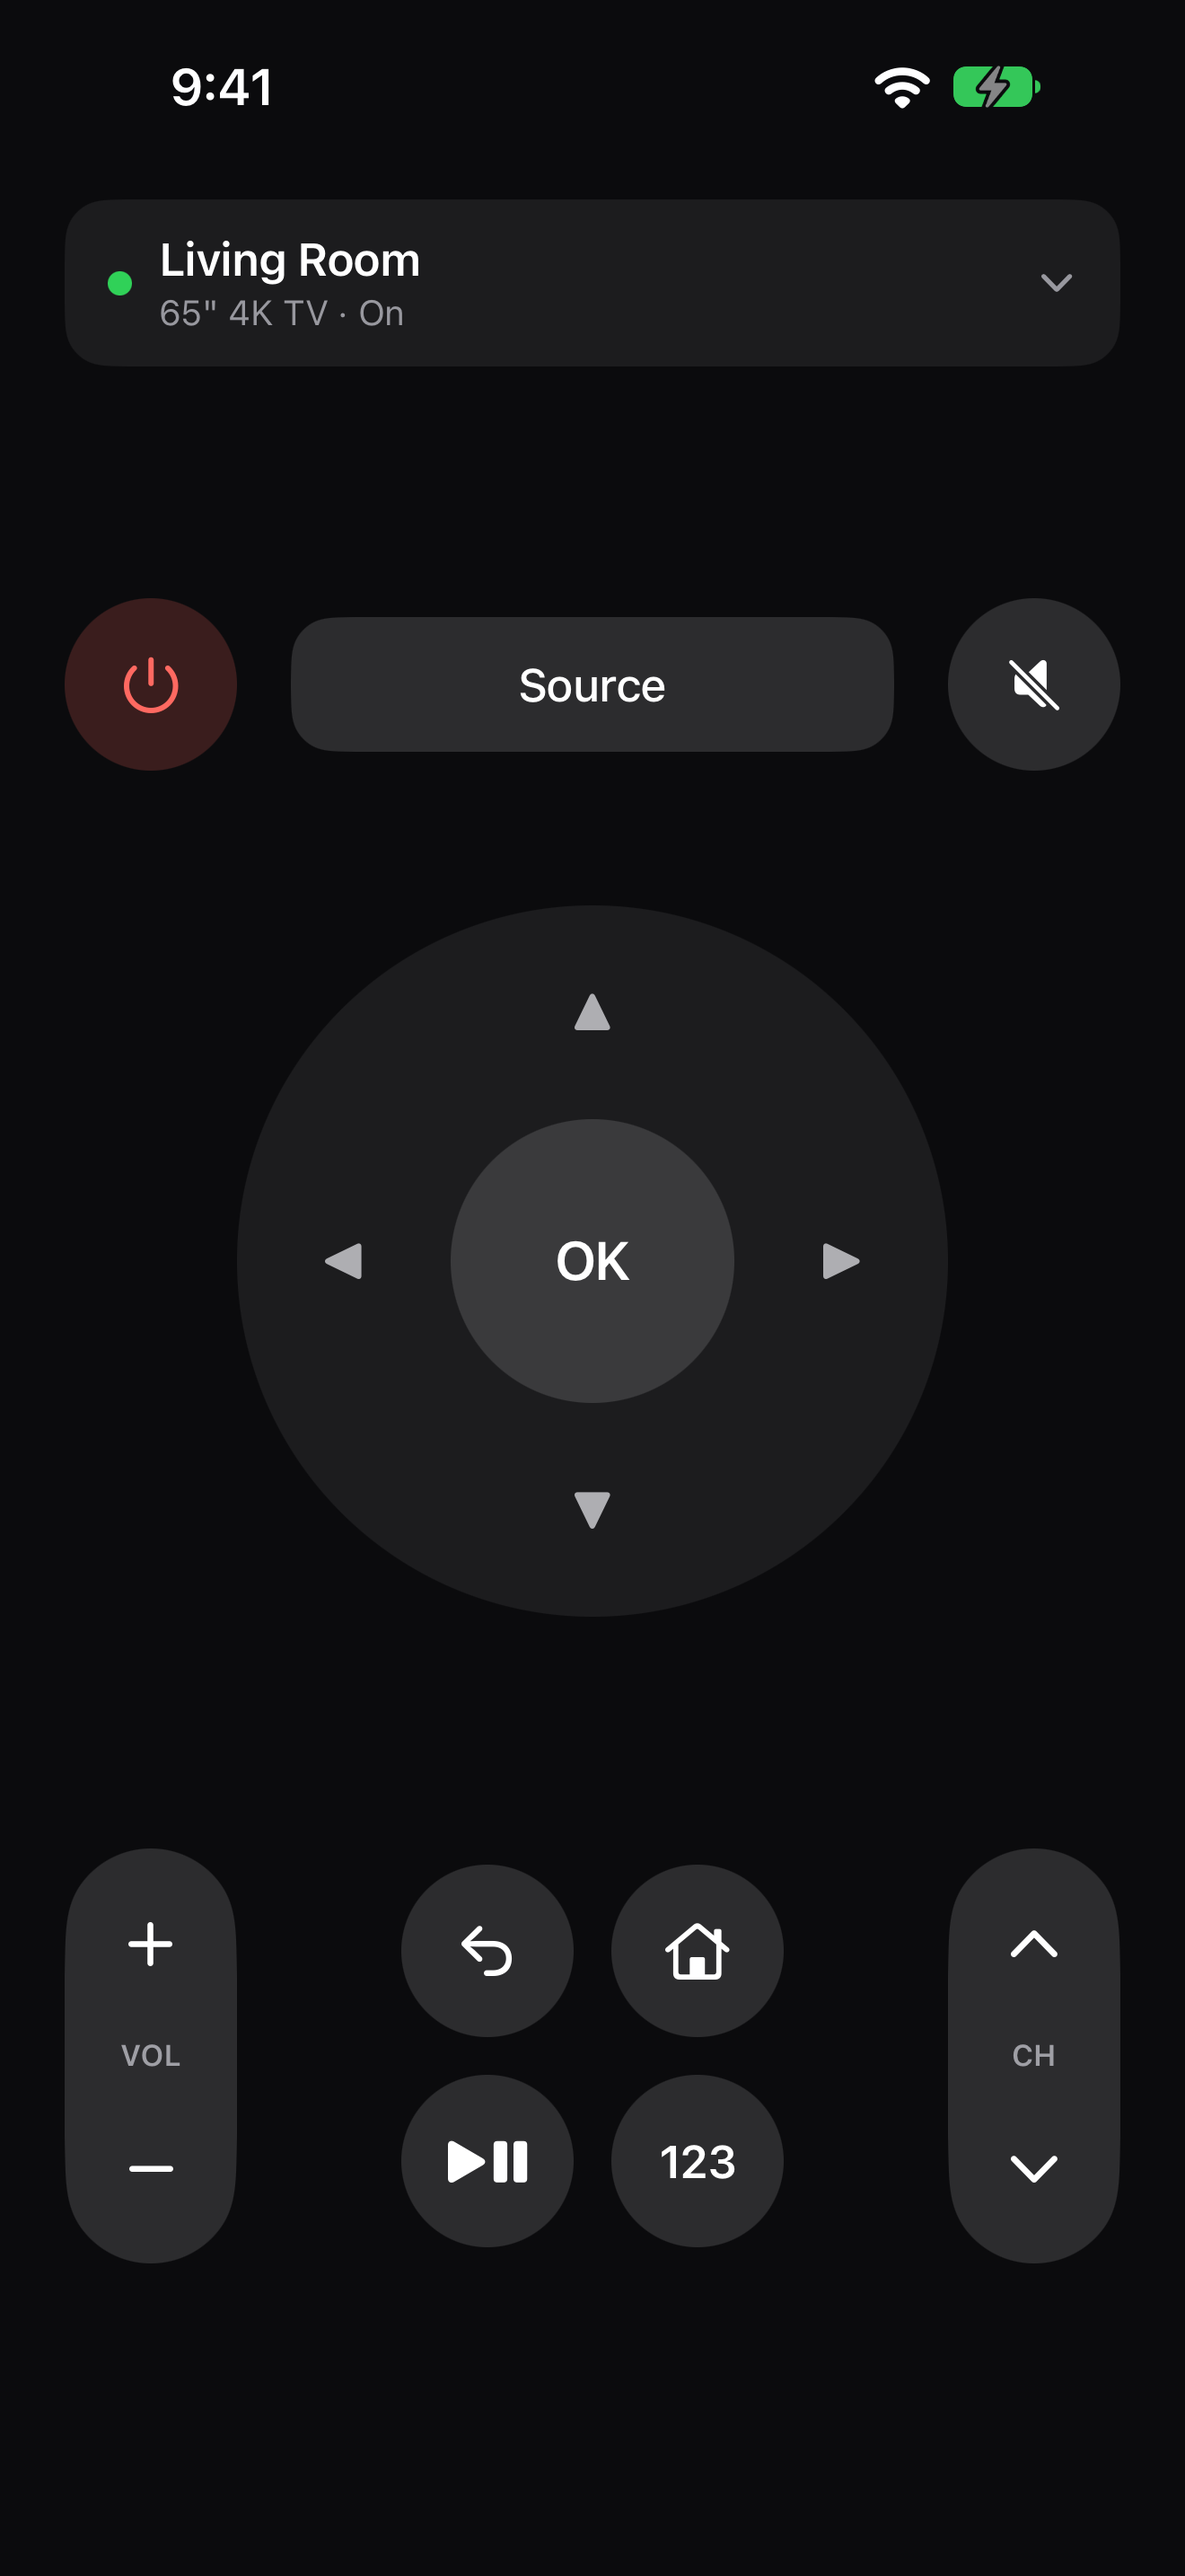
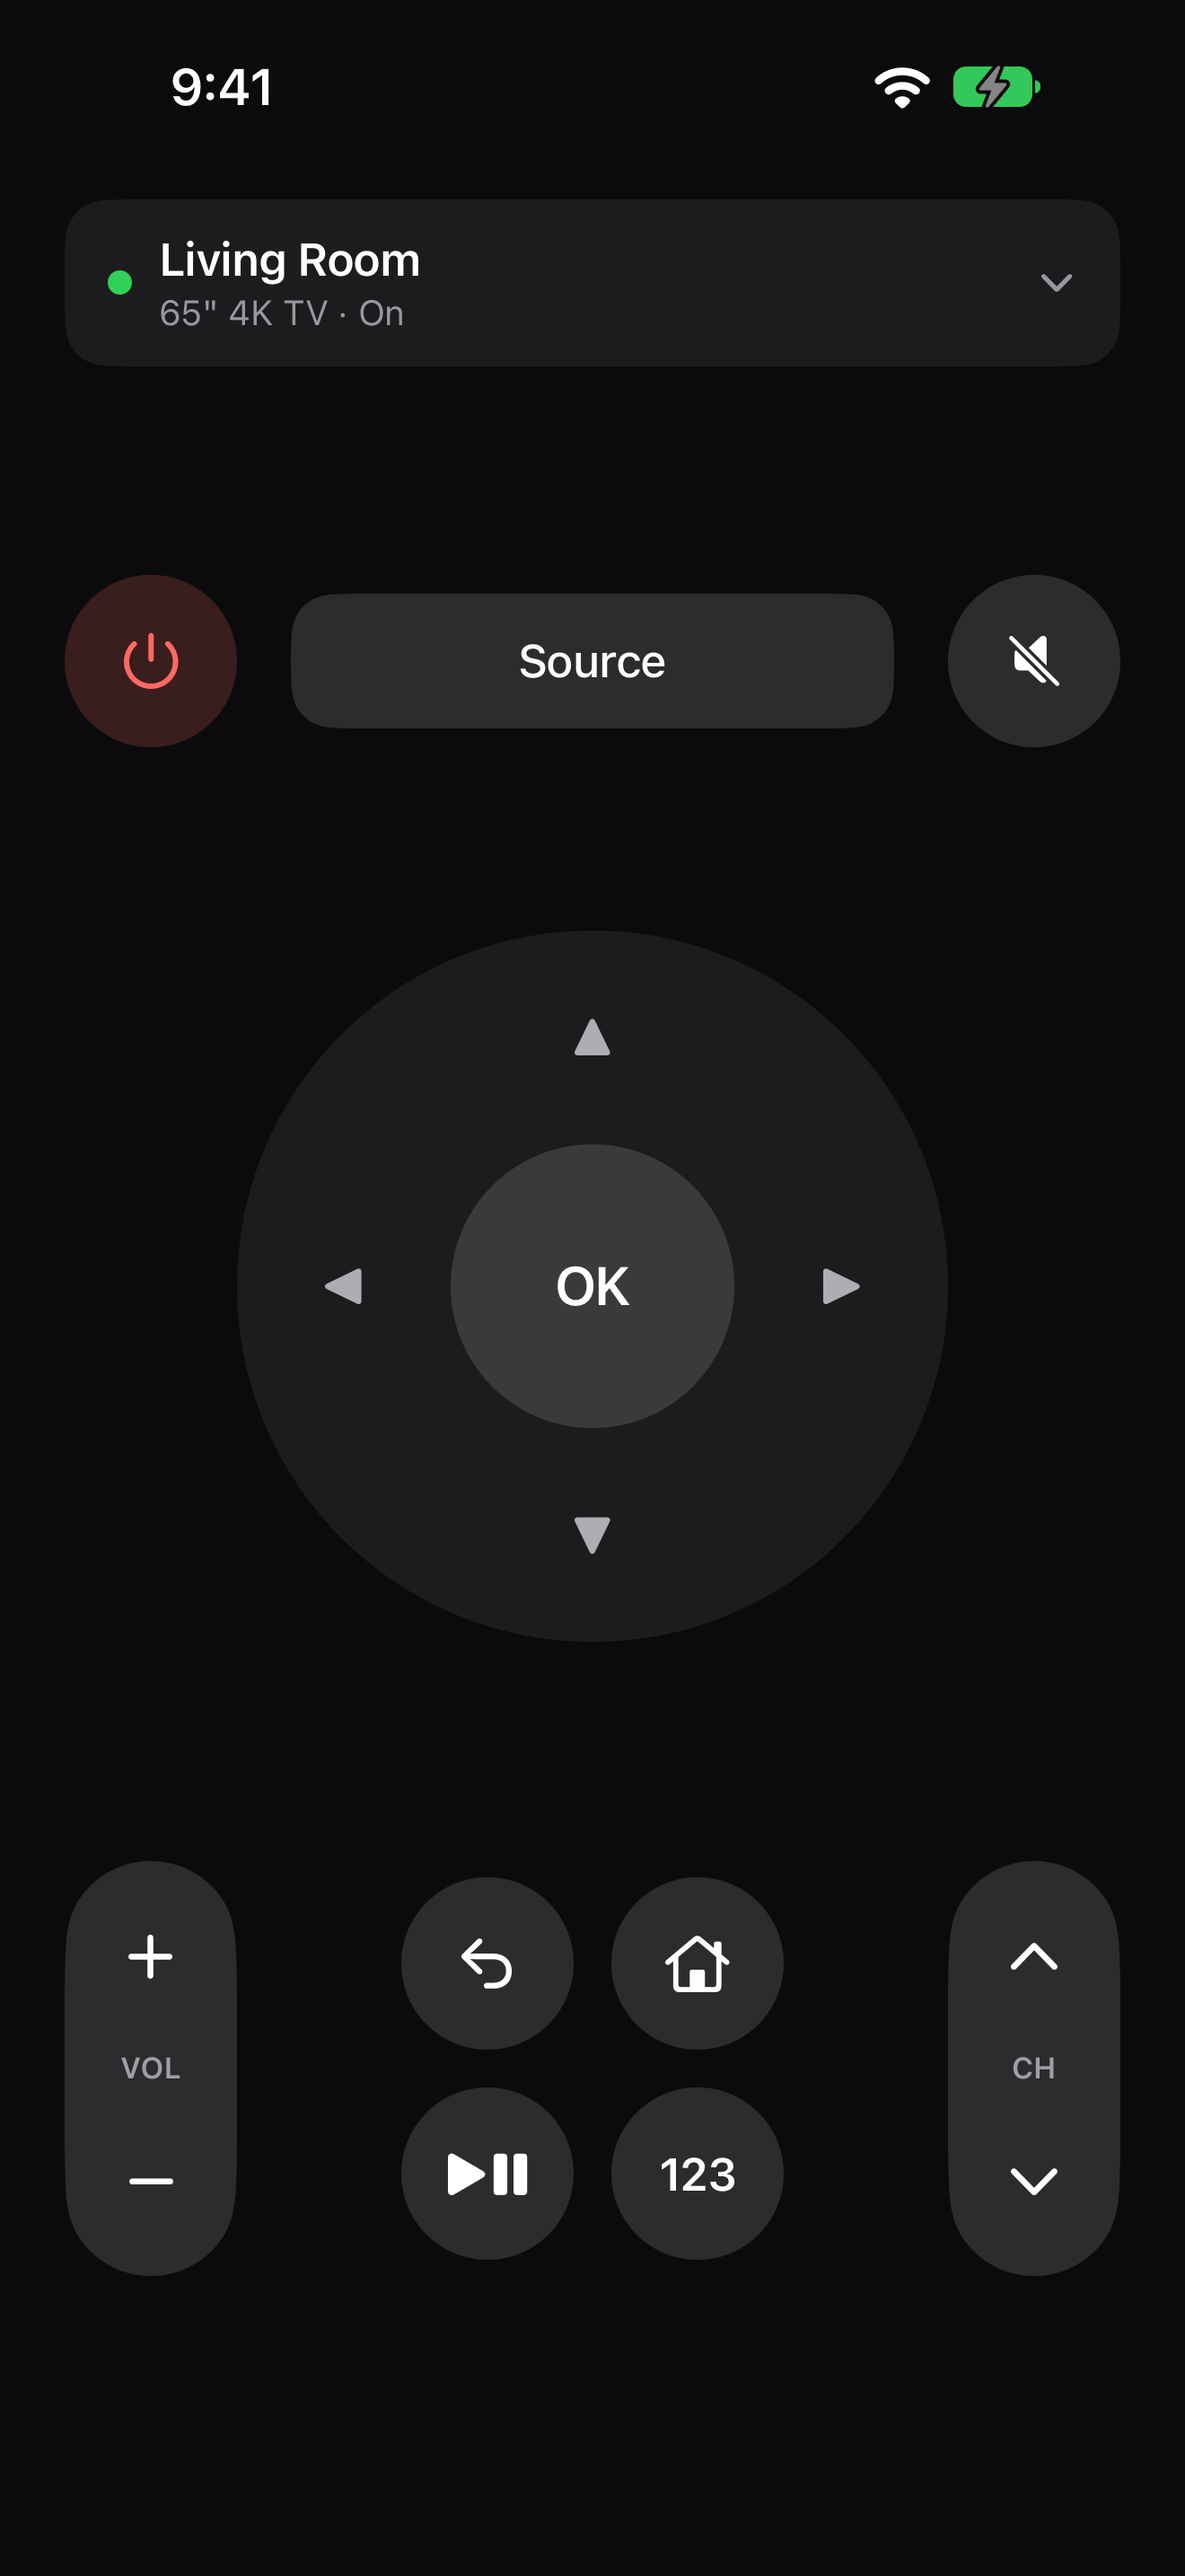
feat: Privacy Policy in the TV menu; a home page for the website
- The TV menu links to the privacy policy (App Review 5.1.1(i) requires it
  to be reachable in the app), below Feedback & Bug Reports.
- docs/index.md becomes the GitHub Pages home page: what the app does,
  requirements, and links to the privacy policy, support and source.
- The README/website screenshot is regenerated from the current demo.

diff --git a/App/SamsungRemoteUITests/FlowUITests.swift b/App/SamsungRemoteUITests/FlowUITests.swift
@@ -86,6 +86,7 @@ final class FlowUITests: XCTestCase {
 
         openMenu(app)
         XCTAssertTrue(app.buttons["Feedback & Bug Reports"].waitForExistence(timeout: 5))
+        XCTAssertTrue(app.buttons["Privacy Policy"].exists) // required in the app by App Review 5.1.1(i)
         attachScreenshot(app, "menu")
         app.coordinate(withNormalizedOffset: CGVector(dx: 0.5, dy: 0.95)).tap()
         XCTAssertTrue(close.waitForNonExistence(timeout: 5))
@@ -180,12 +181,12 @@ final class FlowUITests: XCTestCase {
         let app = launch(["-demo", "-UIPreferredContentSizeCategoryName", "UICTContentSizeCategoryAccessibilityXXXL"])
         XCTAssertTrue(app.buttons["TV picker"].waitForExistence(timeout: 10))
         openMenu(app)
-        let feedback = app.buttons["Feedback & Bug Reports"]
-        XCTAssertTrue(feedback.waitForExistence(timeout: 5))
+        let lastRow = app.buttons["Privacy Policy"]
+        XCTAssertTrue(lastRow.waitForExistence(timeout: 5))
         attachScreenshot(app, "menu-large-text")
         let panel = app.scrollViews.firstMatch
-        for _ in 0..<6 where !feedback.isHittable { panel.swipeUp() }
-        XCTAssertTrue(feedback.isHittable, "the last row must be reachable by scrolling")
+        for _ in 0..<6 where !lastRow.isHittable { panel.swipeUp() }
+        XCTAssertTrue(lastRow.isHittable, "the last row must be reachable by scrolling")
         attachScreenshot(app, "menu-large-text-scrolled")
     }
 

diff --git a/App/SamsungRemote/Views/TVMenu.swift b/App/SamsungRemote/Views/TVMenu.swift
@@ -4,6 +4,8 @@ import SwiftUI
 enum AppLinks {
     /// Where users send feedback and report bugs.
     static let issues = URL(string: "https://github.com/guilhermechapiewski/samsung-free-remote-ios-app/issues")!
+    /// The app's privacy policy (App Review 5.1.1(i) requires it to be reachable in the app).
+    static let privacyPolicy = URL(string: "https://guilhermechapiewski.github.io/samsung-free-remote-ios-app/privacy/")!
 }
 
 /// Opens the TV menu over the screen. Equatable so SwiftUI can tell it has not changed (a bare closure
@@ -163,6 +165,10 @@ struct TVMenuPanel: View {
                 trailing: "arrow.up.right") {
                 onClose()
                 openURL(AppLinks.issues)
+            }
+            row("Privacy Policy", systemImage: "hand.raised", trailing: "arrow.up.right") {
+                onClose()
+                openURL(AppLinks.privacyPolicy)
             }
         }
     }

diff --git a/docs/index.md b/docs/index.md
@@ -1,0 +1,20 @@
+---
+title: Free Remote for Samsung TV
+---
+
+# Free Remote for Samsung TV
+
+A free iPhone remote for Samsung Smart TVs (Tizen). It finds your TV on your Wi-Fi network and works like the
+remote that came with it: power, volume, channels, the arrow pad, Source and HDMI inputs, a number pad, and
+typing into the TV's search boxes. No ads, no accounts, no tracking.
+
+<img src="images/remote.png" alt="The remote screen" width="300">
+
+- [Privacy Policy](privacy/)
+- [Support and bug reports](https://github.com/guilhermechapiewski/samsung-free-remote-ios-app/issues)
+- [Source code](https://github.com/guilhermechapiewski/samsung-free-remote-ios-app) (MIT license)
+
+**Requirements:** an iPhone with iOS 27 or later, and a Samsung Smart TV running Tizen on the same Wi-Fi
+network. To turn the TV on from the app, turn on the TV's "Power On with Mobile" setting.
+
+Not affiliated with or endorsed by Samsung. Samsung and Tizen are trademarks of Samsung Electronics Co., Ltd.
